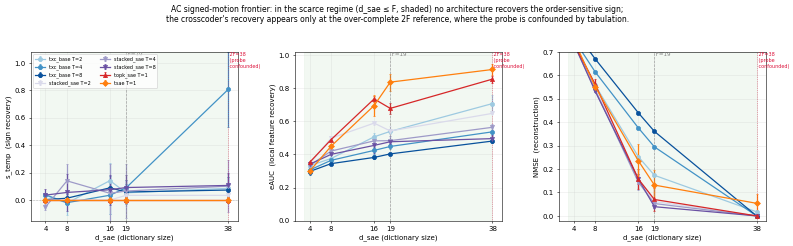
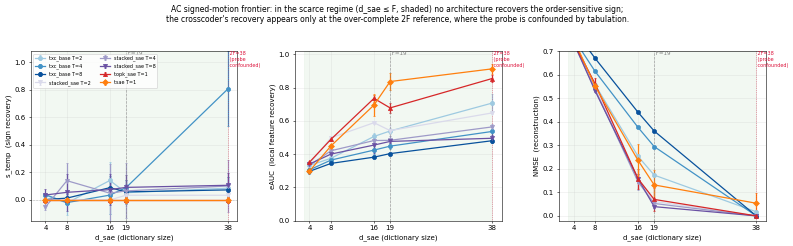
signed_motion: write figs to the bench's own figs/ dir (was CWD-relative)
render_ac_frontier() wrote to Path("synthetic/signed_motion/figs") — a
CWD-relative path that spilled a stray ./synthetic/ tree from the repo root and
left the bench's committed figs stale. Point it at Path(__file__).parent/"figs"
per the per-bench convention (every experiment's figures live in its own figs/).
Figure content unchanged (leaderboard untouched); regenerated in place.
The agent had flagged this pre-existing bug per the refactor briefing.

diff --git a/experiments/explorations/synthetic/signed_motion/render_figs.py b/experiments/explorations/synthetic/signed_motion/render_figs.py
@@ -15,16 +15,14 @@ by tabulation.
 This is the outlier of the synthetic benches: figure-ONLY (single combined
 `bench.md`), on the iter_leaderboard path, with NO record-pipeline. It therefore
 does not use `explorations.synthetic.record` (there are no AUTO tables / stats to
-regenerate here) — see the two FLAGs below for pre-existing bugs left un-fixed
-per the refactor briefing (flag, don't silently change published output).
+regenerate here).
 
-FLAG (pre-existing, not fixed here): `render_ac_frontier` writes to the
-CWD-RELATIVE `Path("synthetic/signed_motion/figs")` (below), NOT this bench's
-`figs/` dir — so from the repo root it creates a stray `./synthetic/…` tree and
-the committed figs go stale. Fix would be `Path(__file__).resolve().parent /
-"figs"`. Also: `bench.md` carries a `<!-- AUTO:* -->` block that this renderer
-never populates (it has no `populate` step) — the block is effectively
-hand-maintained.
+Figures write to this bench's own `figs/` dir (`Path(__file__).parent / "figs"`),
+per the per-bench convention — fixed 2026-07-10 (was a CWD-relative path).
+
+NOTE (remaining pre-existing quirk, left as-is): `bench.md` carries a
+`<!-- AUTO:* -->` block that this renderer never populates (it has no `populate`
+step) — the block is effectively hand-maintained.
 """
 
 from __future__ import annotations
@@ -136,7 +134,7 @@ def render_ac_frontier() -> Path:
     )
     fig.tight_layout(rect=(0, 0, 1, 0.93))
 
-    out_dir = Path("synthetic/signed_motion/figs")  # FLAG: CWD-relative bug (see module docstring)
+    out_dir = Path(__file__).resolve().parent / "figs"  # this bench's own figs/ (convention)
     out_dir.mkdir(parents=True, exist_ok=True)
     pdf = out_dir / "fig_ac_signed_motion.pdf"
     png = out_dir / "fig_ac_signed_motion.png"
